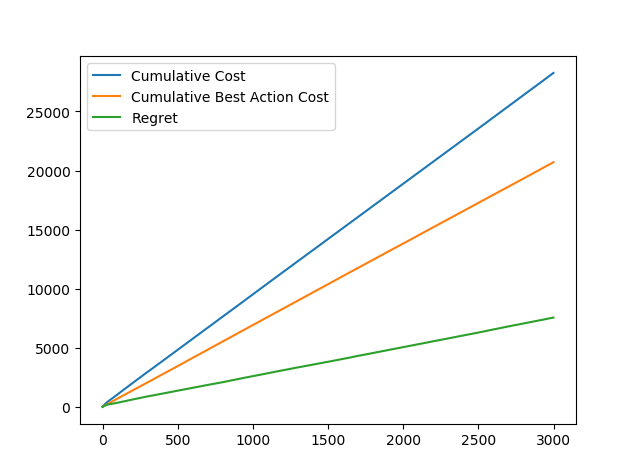
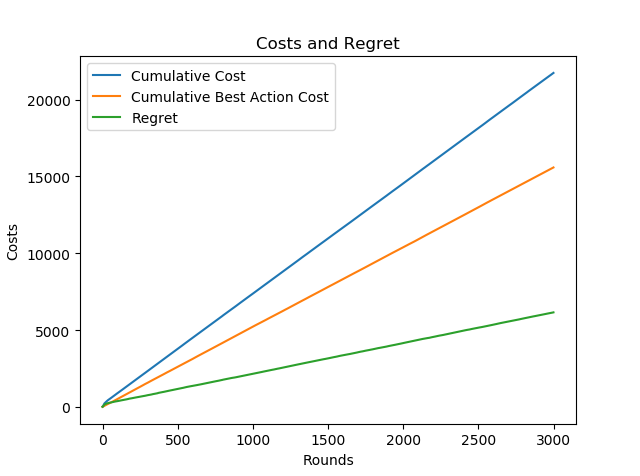
add some plot codes and some simulation results

diff --git a/spanning.py b/spanning.py
@@ -113,8 +113,8 @@ class Simulator:
                 e = Edge()
                 e.setNodes(i,j)
                 #set the weights
-                e.setWeight(np.random.random() * 0.9 + 0.1)
-                #e.setWeight(np.random.weibull(0.7))
+                #e.setWeight(np.random.random() * 2 + 1)
+                e.setWeight(np.random.weibull(0.8))
                 self.graph.addEdge(e)
                 #for i in range(self.numnodes):
                 #    print(len(self.graph.adjlist[i]))
@@ -136,8 +136,8 @@ class Simulator:
                     e.lastvalue = 1
                     """
                 #e.lastvalue = np.random.random() * 20 - 10 + e.weight
-                e.lastvalue = np.random.random() * 1 - 0.5 + e.weight
-                #e.lastvalue = np.random.weibull(0.6) * e.weight
+                #e.lastvalue = np.random.random() * 6 - 3 + e.weight
+                e.lastvalue = np.random.weibull(0.8) * e.weight
                 #e.lastvalue = e.weight
                 # set the confidence bound
                 if e.visit != 0:
@@ -180,8 +180,8 @@ class Simulator:
 
 def main():
     s = Simulator()
-    t = 3000
-    s.setup(10,t)
+    t = 10000
+    s.setup(20,t)
     """
     print(s.graph.numnodes)
     print(len(s.bestedges))
@@ -196,10 +196,17 @@ def main():
     plt.plot(cumact - cumvst)
     plt.legend(['Cumulative Cost','Cumulative Best Action Cost',\
             'Regret'],loc='upper left')
+    plt.xlabel('Rounds')
+    plt.ylabel('Costs')
+    plt.title('Costs and Regret')
     plt.show()
     temp = list(range(t))
     coor = np.array(temp) + 1
     plt.plot((cumact - cumvst) / coor)
+    plt.legend('Mean Regret')
+    plt.title('Mean Regret')
+    plt.xlabel('Rounds')
+    plt.ylabel('Cost')
     plt.show()
 
 if __name__ == '__main__':

diff --git a/netcentergeneral.py b/netcentergeneral.py
@@ -304,10 +304,17 @@ def main():
     plt.plot(cumact - cumvst)
     plt.legend(['Cumulative Cost','Cumulative Best Action Cost',\
             'Regret'],loc='upper left')
+    plt.xlabel('Rounds')
+    plt.ylabel('Costs')
+    plt.title('Costs and Regret')
     plt.show()
     temp = list(range(t))
     coor = np.array(temp) + 1
     plt.plot((cumact - cumvst) / coor)
+    plt.legend('Mean Regret')
+    plt.title('Mean Regret')
+    plt.xlabel('Rounds')
+    plt.ylabel('Cost')
     plt.show()
 
 def test():
